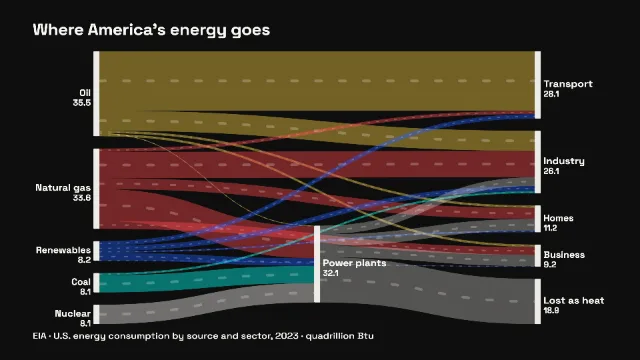
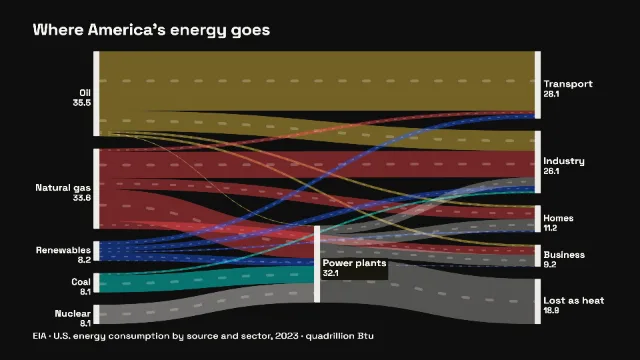
fix(figures): readable text ids meet the layout-contract format; the audit measures length-pinned SVG text by its painted box; text-carrying fills shaded to 6:1; tall frames end at 0.80; lighter cycle step tint

Changed region(s): [[0.5, 0.7028, 0.625, 0.7944]]

diff --git a/src/lib/platform/packs/resolve.ts b/src/lib/platform/packs/resolve.ts
@@ -139,6 +139,37 @@ export function resolveChartSeriesStrokeColor(manifest: PackManifest, seriesInde
 export interface FigureVoicePalette {
 	color: Record<FigureVoice, string>;
 	readableOn: Record<FigureVoice, string>;
+	/** The fill a Mark carrying text takes: its voice, shaded until `readableOn` reaches the text-fill contrast. */
+	textFill: Record<FigureVoice, string>;
+}
+
+/**
+ * The contrast a filled Mark keeps with the text on it. Above WCAG's 4.5:1 so
+ * Pack chrome that lowers measured contrast (scanlines, beam raster, grain)
+ * still leaves the text readable.
+ */
+export const FIGURE_TEXT_FILL_CONTRAST = 6;
+
+function mixCssColor(from: string, to: string, t: number): string {
+	const a = cssColorToRgbaFloat(from);
+	const b = cssColorToRgbaFloat(to);
+	const channel = (index: number): number =>
+		Math.round((a[index] + (b[index] - a[index]) * t) * 255);
+	return `rgb(${channel(0)}, ${channel(1)}, ${channel(2)})`;
+}
+
+/**
+ * A voice shaded toward `away` (the ink's opposite) in 5% steps, up to 60%,
+ * until `ink` reaches FIGURE_TEXT_FILL_CONTRAST on it; the voice itself when it
+ * already does. The Pack keeps the hue; only the fill under text darkens or lightens.
+ */
+function shadeFigureFillForText(voice: string, ink: string, away: string): string {
+	if (cssWcagContrastRatio(ink, voice) >= FIGURE_TEXT_FILL_CONTRAST) return voice;
+	for (let step = 1; step <= 12; step += 1) {
+		const shaded = mixCssColor(voice, away, step * 0.05);
+		if (cssWcagContrastRatio(ink, shaded) >= FIGURE_TEXT_FILL_CONTRAST) return shaded;
+	}
+	return mixCssColor(voice, away, 0.6);
 }
 
 /**
@@ -170,7 +201,14 @@ export function resolveFigureVoiceColors(manifest: PackManifest): FigureVoicePal
 	const readableOn = Object.fromEntries(
 		Object.entries(color).map(([voice, value]) => [voice, readable(value)])
 	) as Record<FigureVoice, string>;
-	return { color, readableOn };
+	const textFill = Object.fromEntries(
+		Object.entries(color).map(([voice, value]) => {
+			const ink = readable(value);
+			const away = ink === chrome.label ? chrome.labelPlate : chrome.label;
+			return [voice, shadeFigureFillForText(value, ink, away)];
+		})
+	) as Record<FigureVoice, string>;
+	return { color, readableOn, textFill };
 }
 
 /** Resolve a semantic chart fill and its bounded declaration-order series voice through the Pack. */

diff --git a/src/lib/platform/runtime-audit.ts b/src/lib/platform/runtime-audit.ts
@@ -807,14 +807,30 @@ export function inkRectForTextRect(
 }
 
 /** Measure painted text fragments rather than a block element's stretched layout box. */
+/**
+ * SVG text whose advance is pinned with `textLength` paints at that length, but
+ * a Range over it reports the font's natural glyph advances, which can be
+ * wider or narrower than what is drawn. Its element box is the painted one.
+ */
+export function isLengthPinnedSvgText(
+	element: Pick<Element, 'hasAttribute'> & { getComputedTextLength?: unknown }
+): boolean {
+	return typeof element.getComputedTextLength === 'function' && element.hasAttribute('textLength');
+}
+
 export function nativeReadableTextRect(
 	element: HTMLElement,
 	roots: readonly DeterministicNativeRootGeometry[]
 ): DeterministicRenderRect {
-	const range = document.createRange();
-	range.selectNodeContents(element);
-	const viewportRect = coveringDeterministicViewportRect([...range.getClientRects()]);
-	range.detach();
+	let viewportRect: Pick<DOMRect, 'left' | 'top' | 'right' | 'bottom'> | null;
+	if (isLengthPinnedSvgText(element)) {
+		viewportRect = coveringDeterministicViewportRect([element.getBoundingClientRect()]);
+	} else {
+		const range = document.createRange();
+		range.selectNodeContents(element);
+		viewportRect = coveringDeterministicViewportRect([...range.getClientRects()]);
+		range.detach();
+	}
 	if (!viewportRect) return nativeRectForElement(element, roots);
 	const insets = getComputedStyle(element).getPropertyValue('--gfx-readable-ink-insets');
 	return nativeRectForViewportRect(

diff --git a/src/lib/utils/figure-readable-text.test.ts b/src/lib/utils/figure-readable-text.test.ts
@@ -1,0 +1,31 @@
+import assert from 'node:assert/strict';
+import { describe, it } from 'vitest';
+
+import { FigureSchema } from '$lib/platform/engine-schema';
+import { FIGURE_TARGET_DECLARATIONS } from '$lib/platform/figure-target-declarations.fixture';
+
+import { figureReadableTextId, resolveFigureReadableText } from './figure-readable-text';
+
+// The layout contract's domain-id format (ADR-0050) that every readable id meets.
+const DOMAIN_ID = /^[a-z0-9][a-z0-9._:-]{0,255}$/;
+
+describe('figureReadableTextId', () => {
+	it('maps the scene key structure into the domain-id format', () => {
+		assert.equal(figureReadableTextId('flows', 'link:a>b#value'), 'block:flows:link:a:to:b:value');
+		assert.equal(figureReadableTextId('tree', 'node:pie#label-1'), 'block:tree:node:pie:label-1');
+	});
+
+	it('gives every target Figure readable ids the layout contract accepts', () => {
+		for (const declaration of Object.values(FIGURE_TARGET_DECLARATIONS)) {
+			const figure = FigureSchema.parse(declaration);
+			for (const orientation of ['horizontal', 'vertical'] as const) {
+				const ids = resolveFigureReadableText(figure, orientation, 0.6, 6000).map(
+					(text) => text.id
+				);
+				assert.ok(ids.length > 0, `${figure.kind} has readable text`);
+				for (const id of ids) assert.match(id, DOMAIN_ID, `${figure.kind} ${orientation}: ${id}`);
+				assert.equal(new Set(ids).size, ids.length, `${figure.kind} ids are unique`);
+			}
+		}
+	});
+});

diff --git a/src/lib/platform/packs/resolve.test.ts b/src/lib/platform/packs/resolve.test.ts
@@ -7,9 +7,12 @@ import {
 	resolveAppearanceVars,
 	resolveBackgroundFill,
 	resolveFieldInkColor,
-	resolvePackRoleColor
+	resolvePackRoleColor,
+	FIGURE_TEXT_FILL_CONTRAST,
+	resolveFigureVoiceColors
 } from './resolve.ts';
 import type { PackManifest } from './types.ts';
+import { cssWcagContrastRatio } from '$lib/utils/color';
 
 describe('resolveBackgroundFill (ADR-0039 §3)', () => {
 	it('passes an absent fill through — presence stays the transparent/opaque signal', () => {
@@ -115,5 +118,17 @@ describe('resolveFieldInkColor', () => {
 		const pack = structuredClone(PACK_REGISTRY['clean-light']);
 		delete pack.roles['field-ink-treatment'];
 		assert.equal(resolveFieldInkColor(pack), '#16181d');
+	});
+});
+
+describe('resolveFigureVoiceColors', () => {
+	it('shades every series fill that carries text until its ink reaches the text-fill contrast', () => {
+		for (const pack of Object.values(PACK_REGISTRY)) {
+			const voices = resolveFigureVoiceColors(pack);
+			for (const voice of ['series-0', 'series-1', 'series-2', 'series-3'] as const) {
+				const ratio = cssWcagContrastRatio(voices.readableOn[voice], voices.textFill[voice]);
+				assert.ok(ratio >= FIGURE_TEXT_FILL_CONTRAST, `${pack.slug} ${voice}: ${ratio.toFixed(2)}`);
+			}
+		}
 	});
 });

diff --git a/src/lib/platform/engine-schema.ts b/src/lib/platform/engine-schema.ts
@@ -1337,13 +1337,18 @@ export const FIGURE_PIN_LIMIT = 64;
 /** How many Marks one Move may name. */
 export const FIGURE_MOVE_TARGET_LIMIT = 32;
 
-// Data ids become parts of Mark ids (`node:<id>`, `link:<a>><b>`), so the
-// separators `:` and `>` and whitespace are reserved.
+// Data ids become parts of Mark ids (`node:<id>`, `link:<a>><b>`) and of
+// readable text ids, which follow the platform's lowercase domain-id format
+// (layout contract, ADR-0050). So ids are lowercase letters, digits, ".", and
+// "-"; the separators `:`, `>`, and `#` stay reserved for Mark structure.
 const FigureDataIdSchema = z
 	.string()
 	.min(1)
 	.max(64)
-	.regex(/^[A-Za-z0-9_.-]+$/, 'Figure data ids use letters, digits, "_", ".", and "-".');
+	.regex(
+		/^[a-z0-9][a-z0-9.-]*$/,
+		'Figure data ids use lowercase letters, digits, ".", and "-", starting with a letter or digit.'
+	);
 const FigureLabelSchema = z.string().min(1).max(80);
 const FigureDetailSchema = z.string().min(1).max(160);
 const FigureFiniteNumberSchema = z.number().finite();

diff --git a/src/lib/platform/runtime-audit.test.ts b/src/lib/platform/runtime-audit.test.ts
@@ -11,6 +11,7 @@ import {
 	deterministicFontCheckDescriptor,
 	hasDeterministicReadableCharacters,
 	inkRectForTextRect,
+	isLengthPinnedSvgText,
 	matchesDeterministicRenderedText,
 	nativeRectForElement,
 	parseDeterministicCssShadows,
@@ -402,5 +403,17 @@ describe('inkRectForTextRect', () => {
 		expect(inkRectForTextRect(rect, '')).toBe(rect);
 		expect(inkRectForTextRect(rect, '1 2 3')).toBe(rect);
 		expect(inkRectForTextRect(rect, '0 0 0 0 0')).toBe(rect);
+	});
+});
+
+describe('isLengthPinnedSvgText', () => {
+	it('measures SVG text pinned with textLength by its painted element box', () => {
+		const svgText = (pinned: boolean) => ({
+			getComputedTextLength: () => 100,
+			hasAttribute: (name: string) => pinned && name === 'textLength'
+		});
+		expect(isLengthPinnedSvgText(svgText(true))).toBe(true);
+		expect(isLengthPinnedSvgText(svgText(false))).toBe(false);
+		expect(isLengthPinnedSvgText({ hasAttribute: () => true })).toBe(false);
 	});
 });

diff --git a/src/lib/utils/figure-readable-text.ts b/src/lib/utils/figure-readable-text.ts
@@ -38,8 +38,14 @@ export interface FigureReadableText {
 	role: DeterministicReadableTextRole;
 }
 
+/**
+ * The readable identity of one Figure text item, in the platform's lowercase
+ * domain-id format (`[a-z0-9][a-z0-9._:-]*`, ADR-0050). Data ids are already
+ * lowercase; the scene key's structural `#` (text of a Mark) becomes `:` and a
+ * link's `>` becomes `:to:`, so `link:a>b#value` reads `link:a:to:b:value`.
+ */
 export function figureReadableTextId(figureId: string, itemKey: string): string {
-	return `block:${figureId}:${itemKey}`;
+	return `block:${figureId}:${itemKey.replaceAll('#', ':').replaceAll('>', ':to:')}`;
 }
 
 export function resolveFigureReadableText(

diff --git a/src/lib/utils/figure-scene-data.ts b/src/lib/utils/figure-scene-data.ts
@@ -1270,9 +1270,10 @@ export function prepareTreemapFigure(
 							...grown,
 							rx: 6,
 							fill: voice,
-							// Opaque, so the text ink chosen for the voice reads on the cell
-							// exactly; the padding gap separates neighbouring cells.
+							// Opaque and shaded for its text, so the ink chosen for the voice
+							// reads on the cell; the padding gap separates neighbouring cells.
 							fillOpacity: 1,
+							carriesText: true,
 							stroke: null,
 							strokeWidth: 0,
 							opacity: dim * zoomFade

diff --git a/src/lib/utils/figure-scene-structure.ts b/src/lib/utils/figure-scene-structure.ts
@@ -1060,7 +1060,8 @@ export function prepareCycleFigure(figure: CycleFigure, env: FigurePrepareEnv): 
 					cy: center.y,
 					r: r * nodeRevealScale(motion, reveal),
 					fill: voice,
-					fillOpacity: 0.22,
+					// A light tint, so the step number keeps its contrast on the fill.
+					fillOpacity: 0.14,
 					stroke: glow > 0.3 || emphasis > 0 ? 'accent' : voice,
 					strokeWidth: 8 + 6 * Math.max(glow, emphasis),
 					opacity: clamp01(reveal) * motion.focusDim(id)

diff --git a/src/lib/pipelines/blocks/figure/CanvasSource.svelte b/src/lib/pipelines/blocks/figure/CanvasSource.svelte
@@ -104,7 +104,7 @@
 						width={Math.max(0, item.width)}
 						height={Math.max(0, item.height)}
 						rx={item.rx}
-						fill={color(item.fill)}
+						fill={item.carriesText && item.fill ? voices.textFill[item.fill] : color(item.fill)}
 						fill-opacity={item.fillOpacity * voiceAlpha(item.fill)}
 						stroke={color(item.stroke)}
 						stroke-width={item.strokeWidth}

diff --git a/src/lib/utils/figure-scene.ts b/src/lib/utils/figure-scene.ts
@@ -71,6 +71,8 @@ export interface FigureSceneRect extends FigureSceneItemBase {
 	fillOpacity: number;
 	stroke: FigureVoice | null;
 	strokeWidth: number;
+	/** Text sits on this fill: the renderer draws the voice's text fill, shaded so that text reads. */
+	carriesText?: true;
 }
 
 export interface FigureScenePath extends FigureSceneItemBase {
